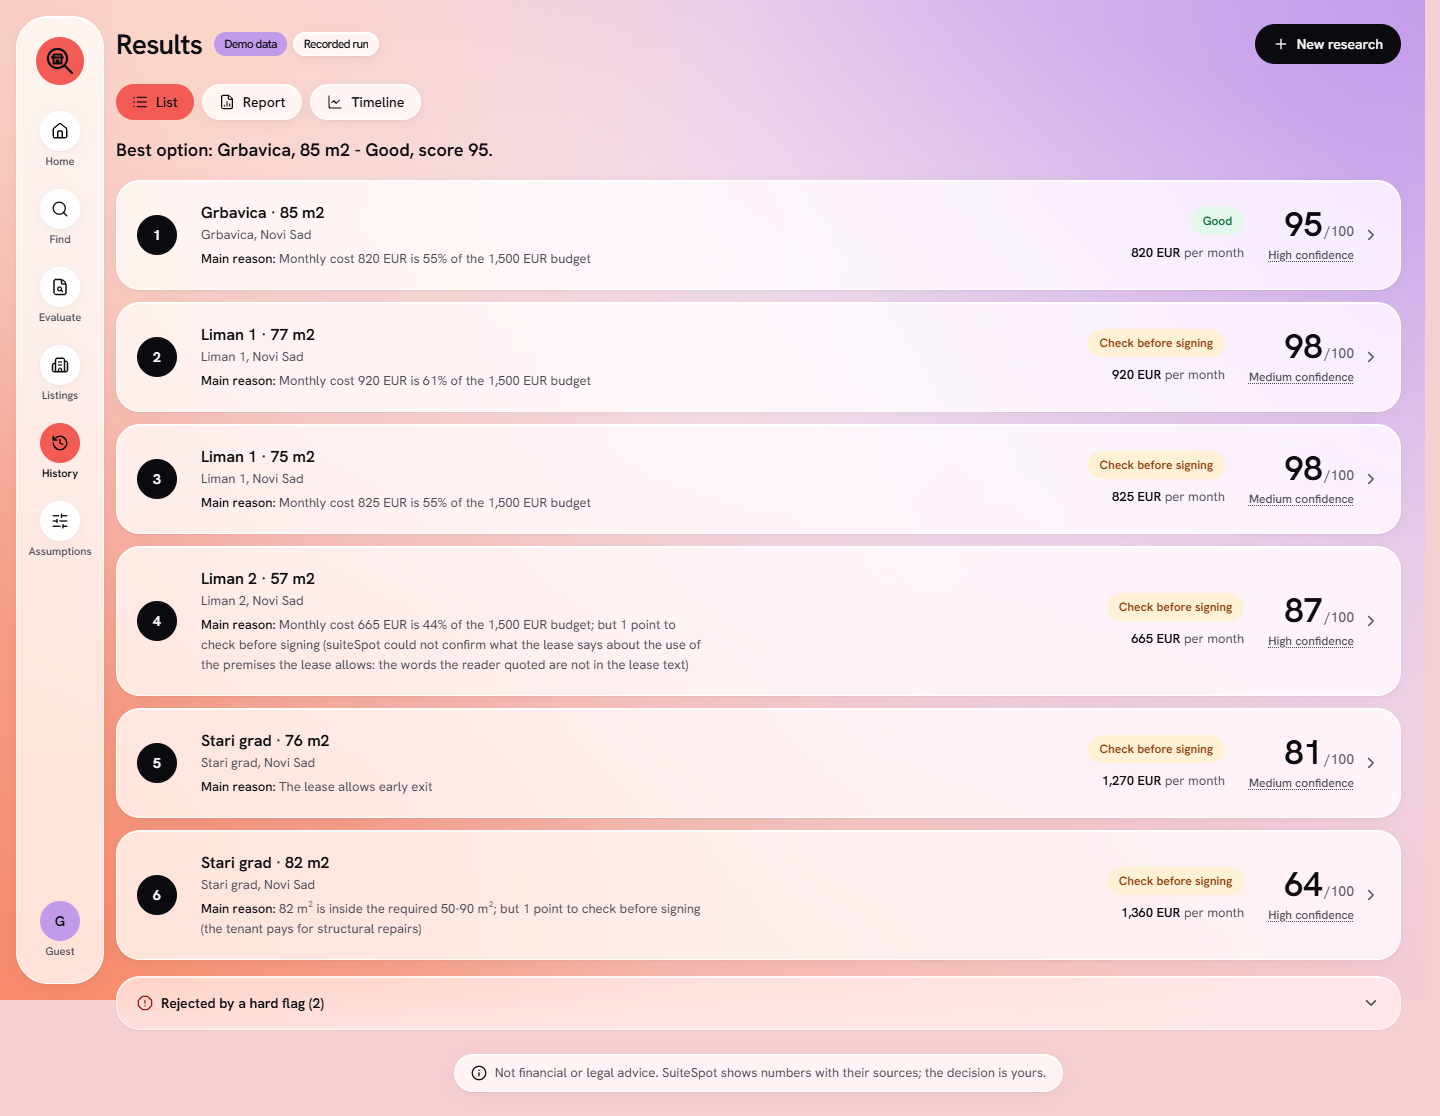
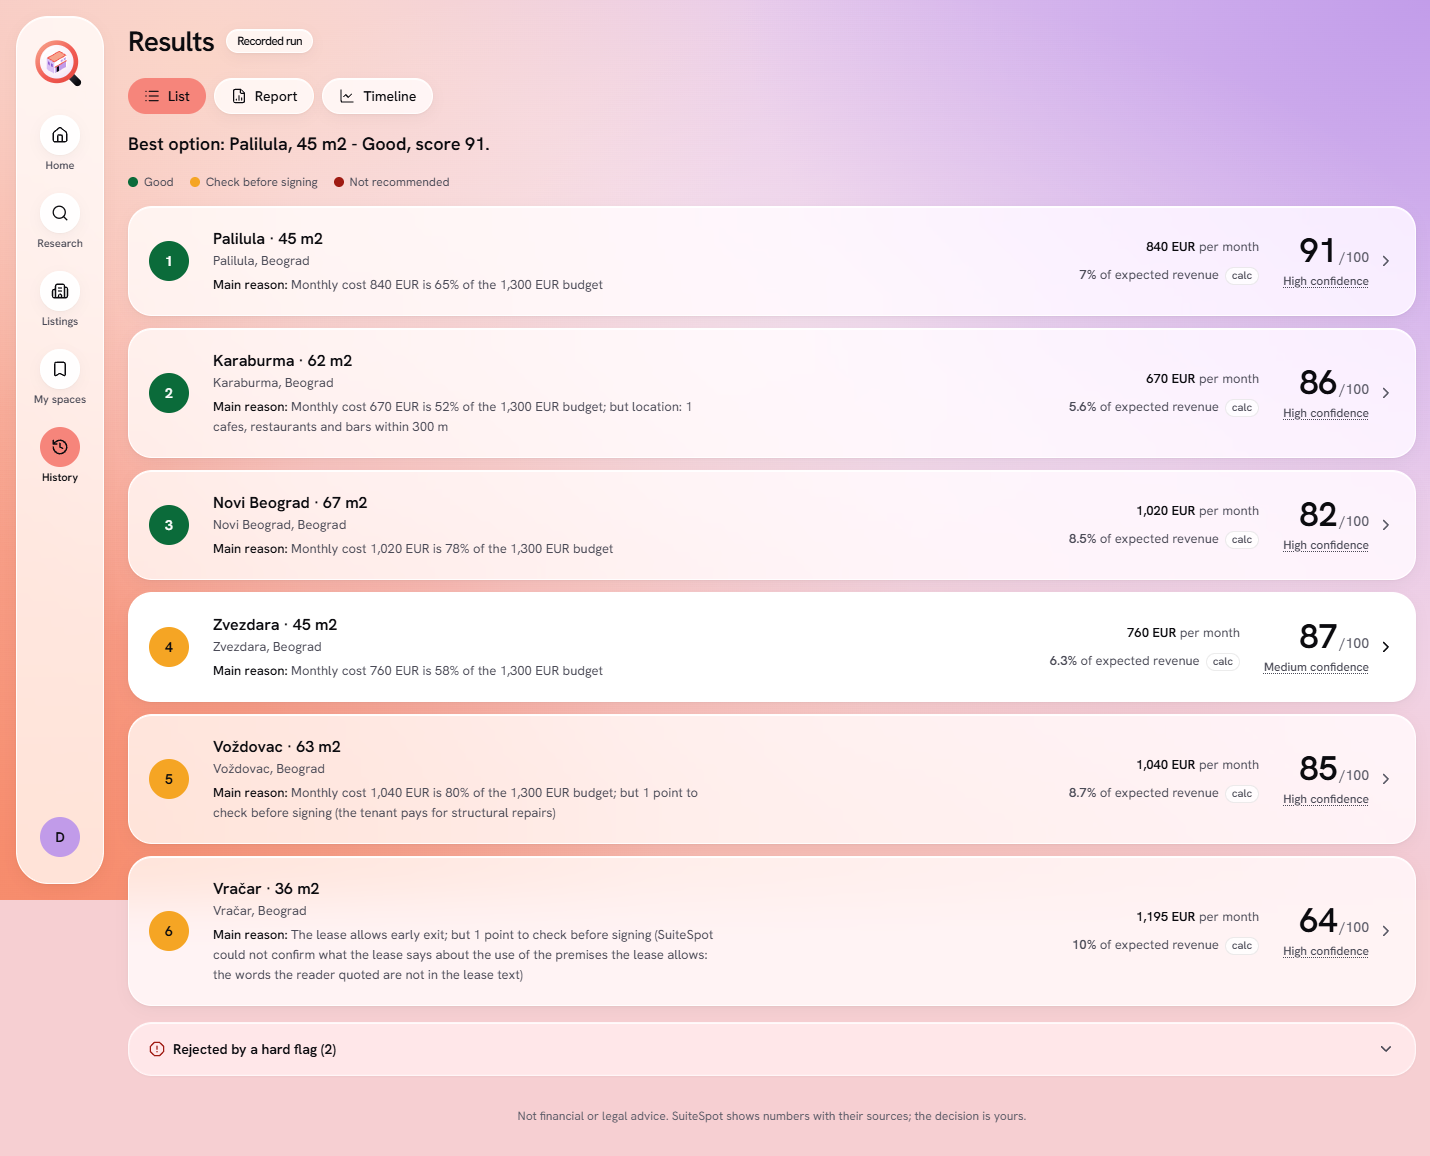
README: new screenshots and text for the orbit, rank colours and the report page
Retook the screenshots the README uses on the production build with a demo
account (no dev shortcuts, synthetic data): the run at its peak (27 loops as
dots), the results list with coloured rank circles, a space page as a report,
the Timeline, and the onboarding role step (new). The text now describes the
event-driven orbit, the rank colour legend instead of verdict pills, the report
cards and "Set up both roles".

Changed region(s): [[0.0, 0.0, 1.0, 1.0]]

diff --git a/README.md b/README.md
@@ -4,7 +4,7 @@
 ten seconds: Mozaik agents evaluate every candidate space at the same time, code does every calculation, a hard flag
 in code stops the agents still working on a deal breaker, and every number on the screen points to its source.
 
-![SuiteSpot results: ranked spaces with score ranges, verdicts and confidence](design/screenshots/results-list.png)
+![SuiteSpot results: ranked spaces, each rank circle coloured by its verdict, with score, monthly cost and the main reason](design/screenshots/results-list.png)
 
 > Built in 48 hours for the JigJoy Black Friday AI Hackathon (26-27 Nov 2026), track "AI agents in finance".
 > **All listings, landlords and businesses are synthetic. Not financial or legal advice.**
@@ -77,22 +77,33 @@ Wait for the line `Local: http://localhost:5173/`, then open **http://localhost:
 Then:
 1. **Sign up** with any email and password. Without Supabase the account is kept on this computer only
    (`data/local-accounts.json`, password stored as a scrypt hash); the page says so.
-2. **Onboarding:** choose **Find a space** (or "I do both"); the role decides what the menu shows. On the business
-   profile form press **Skip for now** (or "Fill with example", then save) and you are in the app.
+2. **Onboarding:** choose **Find a space** (or **Set up both roles**); the role decides what the menu shows. On the
+   business profile form press **Skip for now** (or "Fill with example", then save) and you are in the app.
 3. Click **Research** in the side menu; the **Find spaces** tab is open.
 4. Under "Demo scenario" pick one of the three: **Cafe in Novi Sad**, **Office in Beograd** or **Shop in Novi Sad**.
    The questionnaire on the left is locked to that scenario.
 5. Click **Search and evaluate**.
 
+![Onboarding: choose List my space, Find a space or Set up both roles](design/screenshots/onboarding.png)
+
 What you see:
-- **The run** (about 7 to 13 seconds): the agents travel on a path around the candidate spaces. Counters show the
-  candidates evaluated, the ones ruled out by a deal breaker and **how many agent tasks run right now** (peak 30 in
-  the office scenario). When code finds a deal breaker, that candidate turns red and moves to "Ruled out" with the
-  reason, and any agent loop still working on it stops at its next breakpoint.
-- **Results, List tab**: one ranked list, a verdict per space (Good, Check before signing, Not recommended), the
-  score as a range ("74-94") when data is missing, the confidence and the main reason. Rejected spaces are in their
-  own block with the hard flag that rejected them. Click a space for its page: costs with their sources, strengths
-  and risks, lease terms or questions for the landlord, and what is unknown.
+- **The run** (about 7 to 13 seconds): every agent has its place on the big circle and every candidate is a small
+  circle inside it. **Each running agent loop is a dot** that travels from its agent to its candidate, and the centre
+  counts them (peak 30 in the office scenario). When code finds a deal breaker, the agent that raised it glows dark
+  red, the loops it cancelled on that candidate bounce off, the candidate gets a red mark and moves to "Ruled out"
+  with the reason. When the Lease reader's terms reach a Finance loop that waits for them, a short "Lease terms" line
+  joins the two; when the Auditor sends a draft back, a "Sent back" pulse runs to the Report writer. At the end the
+  Ranker orders the candidates on the ring. Every dot and line comes from a real bus event, never from a timer
+  (`web/src/run/orbit-model.ts`, checked against the three recordings in `tests/orbit-model.test.ts`).
+- **Results, List tab**: one ranked list. **The rank circle's colour is the verdict** (green Good, yellow Check
+  before signing, red Not recommended; one small legend above the list, the verdict in each circle's tooltip), with
+  the score, the monthly cost and the main reason. Rejected spaces are in their own block with the hard flag that
+  rejected them, and keep its icon.
+- **A space's page** reads like a short financial report: a summary (verdict colour, score or range such as "64-74",
+  monthly cost, main reason), then collapsible cards (Costs, Bad year / good year, Lease or buy, Lease terms,
+  Location, The space, Strengths and risks, What is unknown). Each card opens with one sentence on what it shows and
+  what it means for this space; every number after it carries its source, and two small bar charts use calculated
+  values only.
 - **Report tab**: the audited report, one sentence per claim, each with the facts it cites and "Audited: N claims
   checked".
 - **Timeline tab** ("How your research ran"): one lane per agent loop over time, calculator calls as dots, the loop
@@ -101,7 +112,9 @@ What you see:
   claude-haiku-4-5 (see [What is real, recorded and scripted](#what-is-real-recorded-and-scripted)).
 - **How it works** (avatar menu): every weight, threshold and assumption, served from the code itself.
 
-![The run: agents on an orbit around the candidates, one rejected by a hard flag](design/screenshots/run-mid.png)
+![The run at its peak: 27 agent loops as dots on the eight candidates, one candidate already ruled out by a deal breaker](design/screenshots/run-mid.png)
+
+![A space's page: summary with the verdict colour, score range, monthly cost and main reason, then the Costs and Lease or buy cards with sourced numbers and charts](design/screenshots/candidate.png)
 
 ### Then rent a space, still with no key (offer, lease, rent payment)
 1. Open any space (for example from the results, or under **Listings**) and use **Make an offer**: rent, start date,
